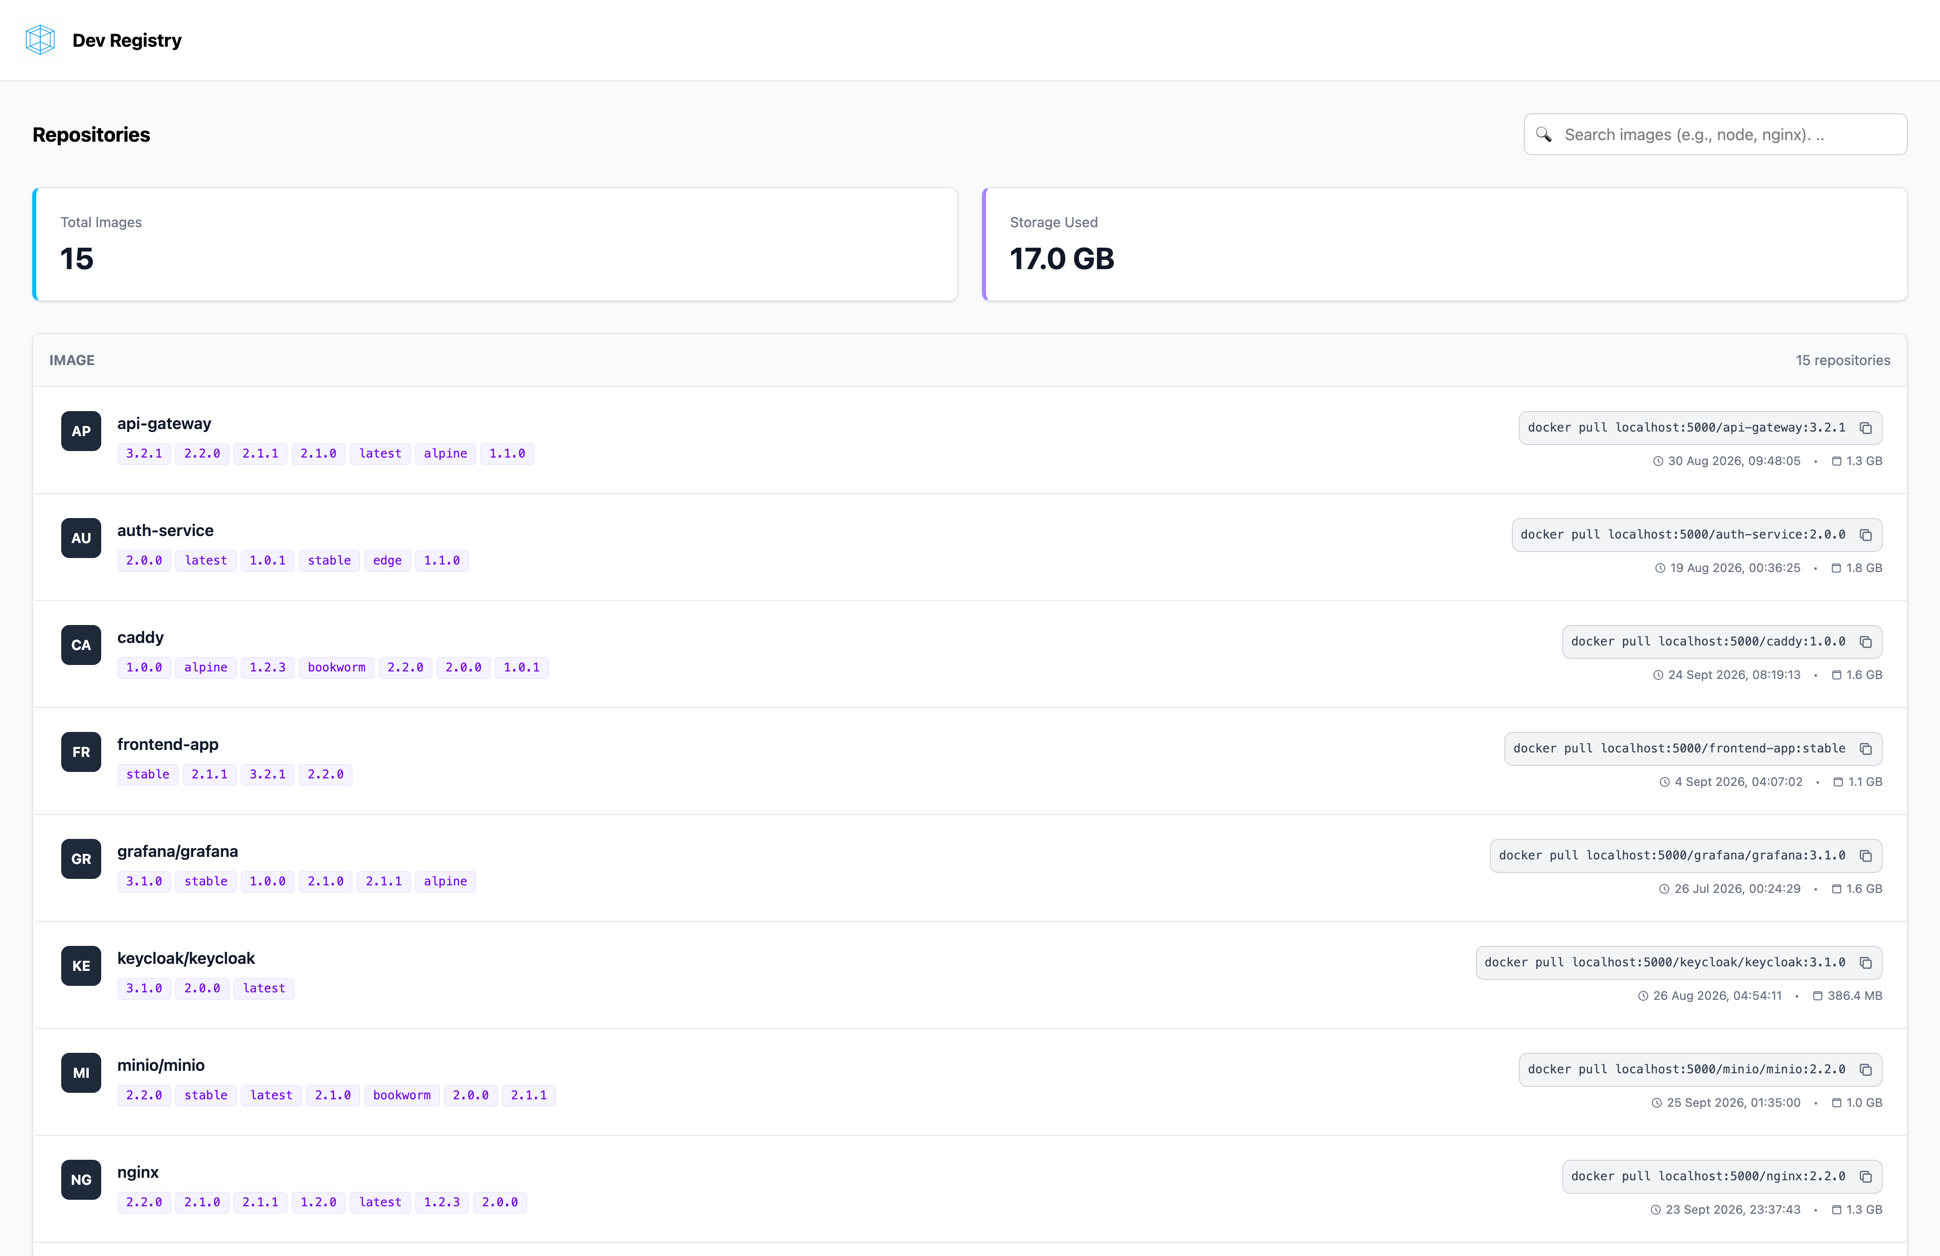
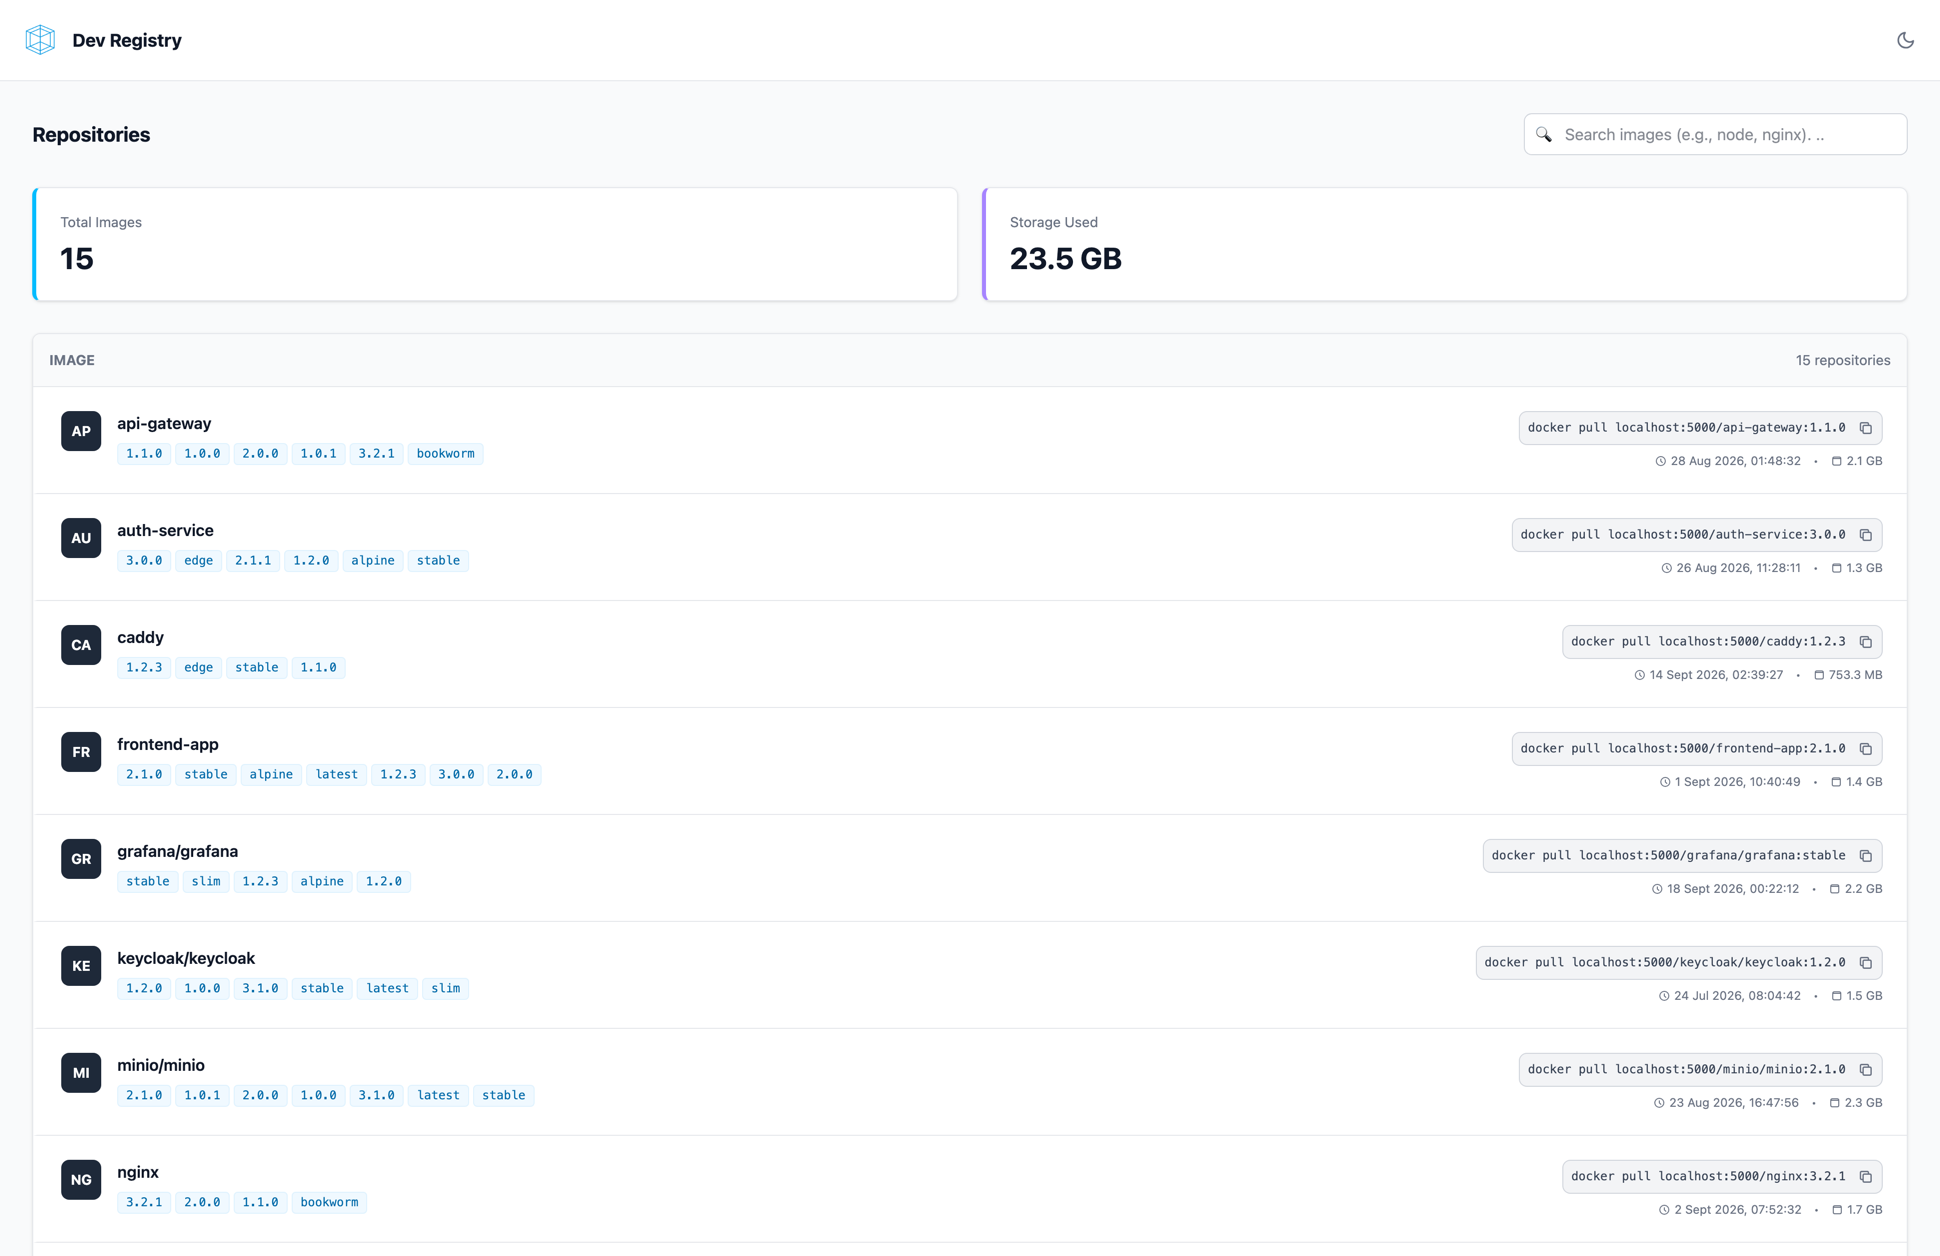
Tweak dark mode (#28)
* Tweak dark mode contrast and hover

Two things were broken in dark mode:

- The repo initial avatars used bg-gray-800, the same colour the card
  behind them became, so the square was invisible. They now use a light
  chip, mirroring the dark-on-white chip used in light mode.
- dark:border-gray-700 sets all four sides, which overrode
  border-l-sky-400 and border-l-violet-400 on the stat cards and left
  them flat grey. Both now set the left colour explicitly.

The hover states were also far stronger than their light mode
counterparts. White to gray-50 is a 1.5 point step in OKLCH lightness,
but gray-800 to gray-700 is 9.5, so the same nominal step reads over six
times louder at the dark end of the scale. Rows now lift by white/5 and
pagination buttons by white/8, keeping buttons the more assertive of the
two.

* Give the logo an alpha channel

logo.png was RGB with no alpha, so the cube sat on a solid white square.
Dark mode worked around that with invert, hue-rotate and mix-blend-lighten,
which did remove the white box but shifted the stroke from its real
1,154,234 to 30,161,241.

Key the white background out instead, with ffmpeg colorkey at similarity
0.10 and blend 0.10. The blend keeps the anti-aliased edges soft, so there
is no light halo against a dark header, and the stroke keeps its exact
colour. The filter classes are no longer needed, and the file is slightly
smaller than before.

Light mode is unchanged, the logo already sat on a white header.
[…]

diff --git a/pages/index.vue b/pages/index.vue
@@ -15,11 +15,11 @@
       </header>
 
       <div class="grid grid-cols-2 gap-6 mb-8">
-        <div class="bg-white p-6 rounded-lg border border-gray-200 border-l-4 border-l-sky-400 shadow-sm dark:bg-gray-800 dark:border-gray-700">
+        <div class="bg-white p-6 rounded-lg border border-gray-200 border-l-4 border-l-sky-400 shadow-sm dark:bg-gray-800 dark:border-gray-700 dark:border-l-sky-400">
           <div class="text-sm text-gray-500 mb-2 dark:text-gray-400">Total Images</div>
           <div class="text-3xl font-bold text-gray-900 dark:text-gray-100">{{ totalImages }}</div>
         </div>
-        <div class="bg-white p-6 rounded-lg border border-gray-200 border-l-4 border-l-violet-400 shadow-sm dark:bg-gray-800 dark:border-gray-700">
+        <div class="bg-white p-6 rounded-lg border border-gray-200 border-l-4 border-l-violet-400 shadow-sm dark:bg-gray-800 dark:border-gray-700 dark:border-l-violet-400">
           <div class="text-sm text-gray-500 mb-2 dark:text-gray-400">Storage Used</div>
           <div class="text-3xl font-bold text-gray-900 dark:text-gray-100">{{ formatBytes(totalStorage) }}</div>
         </div>
@@ -31,18 +31,18 @@
           <span class="text-sm text-gray-500 dark:text-gray-400">{{ totalImages }} {{ totalImages === 1 ? 'repository' : 'repositories' }}</span>
         </div>
 
-          <div class="p-6 border-b border-gray-200 border-l-4 border-l-transparent flex justify-between items-start transition hover:bg-gray-50 hover:border-l-sky-400 dark:border-gray-700 dark:hover:bg-gray-700" v-for="r in repos" :key="r.name">
+          <div class="p-6 border-b border-gray-200 border-l-4 border-l-transparent flex justify-between items-start transition hover:bg-gray-50 hover:border-l-sky-400 dark:border-gray-700 dark:hover:bg-white/5" v-for="r in repos" :key="r.name">
               <div class="flex gap-4 items-start">
-                <div class="bg-gray-800 text-white w-10 h-10 rounded-lg flex items-center justify-center font-bold text-sm shrink-0">
+                <div class="bg-gray-800 text-white w-10 h-10 rounded-lg dark:bg-gray-200 dark:text-gray-900 flex items-center justify-center font-bold text-sm shrink-0">
                   {{ getRepoInitial(r.name) }}
                 </div>
                 <div>
-                  <NuxtLink :to="`/repos/${r.slug}`" class="font-semibold text-gray-900 hover:text-sky-600 transition dark:text-gray-100">
+                  <NuxtLink :to="`/repos/${r.slug}`" class="font-semibold text-gray-900 hover:text-sky-600 transition dark:text-gray-100 dark:hover:text-sky-400">
                     {{ r.name }}
                   </NuxtLink>
                 <div class="flex flex-wrap gap-1 mt-2">
-                  <span class="inline-block px-2 py-0.5 text-xs font-mono rounded border border-violet-100 bg-violet-50 text-violet-700 dark:border-violet-800 dark:bg-violet-950 dark:text-violet-300" v-for="tag in r.tags.slice(0, 10)" :key="tag">{{ tag }}</span>
-                  <span class="inline-block px-2 py-0.5 text-xs font-mono rounded border border-violet-100 bg-violet-50 text-violet-500 dark:border-violet-800 dark:bg-violet-950 dark:text-violet-300" v-if="r.tags.length > 10">+{{ r.tags.length - 10 }} more</span>
+                  <span class="inline-block px-2 py-0.5 text-xs font-mono rounded border border-sky-100 bg-sky-50 text-sky-700 dark:border-sky-400/15 dark:bg-sky-400/8 dark:text-sky-300" v-for="tag in r.tags.slice(0, 10)" :key="tag">{{ tag }}</span>
+                  <span class="inline-block px-2 py-0.5 text-xs font-mono rounded border border-sky-100 bg-sky-50 text-sky-700 dark:border-sky-400/15 dark:bg-sky-400/8 dark:text-sky-300" v-if="r.tags.length > 10">+{{ r.tags.length - 10 }} more</span>
                 </div>
               </div>
             </div>
@@ -75,7 +75,7 @@
           <button
             @click="currentPage--"
             :disabled="currentPage === 1"
-            class="px-4 py-2 border border-gray-300 rounded-lg bg-white text-gray-700 hover:bg-gray-50 disabled:opacity-50 disabled:cursor-not-allowed cursor-pointer transition dark:border-gray-600 dark:bg-gray-800 dark:text-gray-200 dark:hover:bg-gray-700"
+            class="px-4 py-2 border border-gray-300 rounded-lg bg-white text-gray-700 hover:bg-gray-50 disabled:opacity-50 disabled:cursor-not-allowed cursor-pointer transition dark:border-gray-600 dark:bg-gray-800 dark:text-gray-200 dark:hover:bg-white/8"
           >
             Previous
           </button>
@@ -88,7 +88,7 @@
               'px-4 py-2 border rounded-lg transition cursor-pointer',
               currentPage === page
                 ? 'bg-sky-500 text-white border-sky-500'
-                : 'bg-white text-gray-700 border-gray-300 hover:bg-gray-50 dark:bg-gray-800 dark:text-gray-200 dark:border-gray-600 dark:hover:bg-gray-700'
+                : 'bg-white text-gray-700 border-gray-300 hover:bg-gray-50 dark:bg-gray-800 dark:text-gray-200 dark:border-gray-600 dark:hover:bg-white/8'
             ]"
           >
             {{ page }}
@@ -97,7 +97,7 @@
           <button
             @click="currentPage++"
             :disabled="currentPage === totalPages"
-            class="px-4 py-2 border border-gray-300 rounded-lg bg-white text-gray-700 hover:bg-gray-50 disabled:opacity-50 disabled:cursor-not-allowed cursor-pointer transition dark:border-gray-600 dark:bg-gray-800 dark:text-gray-200 dark:hover:bg-gray-700"
+            class="px-4 py-2 border border-gray-300 rounded-lg bg-white text-gray-700 hover:bg-gray-50 disabled:opacity-50 disabled:cursor-not-allowed cursor-pointer transition dark:border-gray-600 dark:bg-gray-800 dark:text-gray-200 dark:hover:bg-white/8"
           >
             Next
           </button>

diff --git a/pages/repos/[slug].vue b/pages/repos/[slug].vue
@@ -3,7 +3,7 @@
     <main class="flex-1 overflow-y-auto p-8">
       <header class="flex justify-between items-center mb-8">
         <div>
-          <NuxtLink to="/" class="flex items-center text-sky-600 hover:text-sky-800 transition">
+          <NuxtLink to="/" class="flex items-center text-sky-600 hover:text-sky-800 transition dark:text-sky-400 dark:hover:text-sky-300">
             ← Back
           </NuxtLink>
           <h1 class="font-bold text-xl mt-2">{{ data?.repo }}</h1>
@@ -36,10 +36,10 @@
               </tr>
             </thead>
             <tbody class="bg-white divide-y divide-gray-200 dark:bg-gray-800 dark:divide-gray-700">
-              <tr v-for="img in images" :key="img.digest || img.tags[0]" class="hover:bg-gray-50 dark:hover:bg-gray-700">
+              <tr v-for="img in images" :key="img.digest || img.tags[0]" class="hover:bg-gray-50 dark:hover:bg-white/5">
               <td class="px-6 py-4 text-sm font-medium text-gray-900 dark:text-gray-100">
                 <div class="flex flex-wrap gap-1">
-                  <span v-for="tag in img.tags" :key="tag" class="inline-block px-2 py-0.5 text-xs font-mono rounded border border-violet-100 bg-violet-50 text-violet-700 dark:border-violet-800 dark:bg-violet-950 dark:text-violet-300">{{ tag }}</span>
+                  <span v-for="tag in img.tags" :key="tag" class="inline-block px-2 py-0.5 text-xs font-mono rounded border border-sky-100 bg-sky-50 text-sky-700 dark:border-sky-400/15 dark:bg-sky-400/8 dark:text-sky-300">{{ tag }}</span>
                 </div>
               </td>
               <td class="px-6 py-4 whitespace-nowrap text-sm text-gray-500 dark:text-gray-400">
@@ -53,7 +53,7 @@
                   v-if="img.digest"
                   @click="deleteImage(img)"
                   :disabled="deleting[img.digest]"
-                  class="text-red-600 hover:text-red-800 disabled:text-gray-400 disabled:cursor-not-allowed transition text-xs font-medium cursor-pointer"
+                  class="text-red-600 hover:text-red-800 disabled:text-gray-400 dark:text-red-400 dark:hover:text-red-300 disabled:cursor-not-allowed transition text-xs font-medium cursor-pointer"
                 >
                   {{ deleting[img.digest] ? 'Deleting...' : 'Delete' }}
                 </button>
@@ -73,7 +73,7 @@
           <button
             @click="currentPage--"
             :disabled="currentPage === 1"
-            class="px-4 py-2 border border-gray-300 rounded-lg bg-white text-gray-700 hover:bg-gray-50 disabled:opacity-50 disabled:cursor-not-allowed cursor-pointer transition dark:border-gray-600 dark:bg-gray-800 dark:text-gray-200 dark:hover:bg-gray-700"
+            class="px-4 py-2 border border-gray-300 rounded-lg bg-white text-gray-700 hover:bg-gray-50 disabled:opacity-50 disabled:cursor-not-allowed cursor-pointer transition dark:border-gray-600 dark:bg-gray-800 dark:text-gray-200 dark:hover:bg-white/8"
           >
             Previous
           </button>
@@ -86,7 +86,7 @@
               'px-4 py-2 border rounded-lg transition cursor-pointer',
               currentPage === page
                 ? 'bg-sky-500 text-white border-sky-500'
-                : 'bg-white text-gray-700 border-gray-300 hover:bg-gray-50 dark:bg-gray-800 dark:text-gray-200 dark:border-gray-600 dark:hover:bg-gray-700'
+                : 'bg-white text-gray-700 border-gray-300 hover:bg-gray-50 dark:bg-gray-800 dark:text-gray-200 dark:border-gray-600 dark:hover:bg-white/8'
             ]"
           >
             {{ page }}
@@ -95,7 +95,7 @@
           <button
             @click="currentPage++"
             :disabled="currentPage === totalPages"
-            class="px-4 py-2 border border-gray-300 rounded-lg bg-white text-gray-700 hover:bg-gray-50 disabled:opacity-50 disabled:cursor-not-allowed cursor-pointer transition dark:border-gray-600 dark:bg-gray-800 dark:text-gray-200 dark:hover:bg-gray-700"
+            class="px-4 py-2 border border-gray-300 rounded-lg bg-white text-gray-700 hover:bg-gray-50 disabled:opacity-50 disabled:cursor-not-allowed cursor-pointer transition dark:border-gray-600 dark:bg-gray-800 dark:text-gray-200 dark:hover:bg-white/8"
           >
             Next
           </button>

diff --git a/components/ThemeToggle.vue b/components/ThemeToggle.vue
@@ -1,24 +1,44 @@
 <script setup lang="ts">
-import { useTheme } from '../composables/useTheme';
-
 const { isDark, toggleTheme } = useTheme();
+
+const label = computed(() => (isDark.value ? 'Switch to light theme' : 'Switch to dark theme'));
 </script>
 
 <template>
-  <div class="ml-auto flex items-center gap-3">
-    <span class="text-sm text-gray-600 dark:text-gray-300">Theme</span>
-    <button
-      type="button"
-      :aria-pressed="isDark"
-      :aria-label="isDark ? 'Switch to light theme' : 'Switch to dark theme'"
-      class="relative inline-flex h-7 w-12 items-center rounded-full border px-1 focus:outline-none focus:ring-2 focus:ring-sky-500 cursor-pointer"
-      :class="isDark ? 'bg-sky-500 border-sky-400 dark:bg-sky-500 dark:border-sky-400' : 'bg-gray-200 border-gray-300 dark:bg-gray-700 dark:border-gray-600'"
-      @click="toggleTheme"
+  <button
+    type="button"
+    :aria-pressed="isDark"
+    :aria-label="label"
+    :title="label"
+    class="ml-auto p-2 rounded-lg text-gray-500 transition cursor-pointer hover:text-gray-900 hover:bg-gray-100 focus:outline-none focus-visible:ring-2 focus-visible:ring-sky-500 dark:text-gray-400 dark:hover:text-gray-100 dark:hover:bg-white/8"
+    @click="toggleTheme"
+  >
+    <svg
+      v-if="isDark"
+      class="w-5 h-5"
+      fill="none"
+      stroke="currentColor"
+      stroke-width="2"
+      stroke-linecap="round"
+      stroke-linejoin="round"
+      viewBox="0 0 24 24"
+      aria-hidden="true"
     >
-      <span
-        class="inline-block h-5 w-5 rounded-full bg-white shadow"
-        :class="isDark ? 'translate-x-5' : 'translate-x-0'"
-      />
-    </button>
-  </div>
+      <circle cx="12" cy="12" r="5" />
+      <path d="M12 1v2M12 21v2M4.22 4.22l1.42 1.42M18.36 18.36l1.42 1.42M1 12h2M21 12h2M4.22 19.78l1.42-1.42M18.36 5.64l1.42-1.42" />
+    </svg>
+    <svg
+      v-else
+      class="w-5 h-5"
+      fill="none"
+      stroke="currentColor"
+      stroke-width="2"
+      stroke-linecap="round"
+      stroke-linejoin="round"
+      viewBox="0 0 24 24"
+      aria-hidden="true"
+    >
+      <path d="M21 12.79A9 9 0 1 1 11.21 3 7 7 0 0 0 21 12.79z" />
+    </svg>
+  </button>
 </template>

diff --git a/layouts/default.vue b/layouts/default.vue
@@ -19,7 +19,7 @@ useHead({
 <template>
   <div class="flex flex-col h-screen bg-gray-50 text-gray-900 dark:bg-gray-900 dark:text-gray-100">
     <header class="bg-white border-b border-gray-200 p-4 flex items-center gap-2 dark:bg-gray-800 dark:border-gray-700">
-      <img class="h-12 dark:invert dark:hue-rotate-180 dark:mix-blend-lighten" src="/logo.png" alt="logo" />
+      <img class="h-12" src="/logo.png" alt="logo" />
       <span class="font-bold text-lg">{{ config.public.registryTitle }}</span>
       <ThemeToggle />
     </header>

diff --git a/CLAUDE.md b/CLAUDE.md
@@ -58,6 +58,10 @@ pages/
   repos/[slug].vue       # Repo detail — images grouped by digest, delete button
 
 layouts/default.vue      # Shared header/wrapper
+
+components/ThemeToggle.vue  # Icon-only light/dark switch (inline SVG, no icon library)
+composables/useTheme.ts     # Theme state in a cookie, so SSR renders the right class
+assets/css/main.css         # Global stylesheet — Tailwind entry + the dark variant
 ```
 
 **Data flow:** `refresh-registry.mjs` → SQLite → Nitro API handlers → `useFetch()` in Vue pages.
@@ -72,11 +76,21 @@ layouts/default.vue      # Shared header/wrapper
 
 **Image deletion:** The repo detail page includes delete buttons for each image. Deletion flow: UI calls DELETE endpoint → server calls Registry API v2 `DELETE /v2/<name>/manifests/<digest>` (returns 202 Accepted) → triggers database refresh → pruning removes deleted entries → UI refreshes. Requires registry to have deletion enabled (`REGISTRY_STORAGE_DELETE_ENABLED=true`). Uses confirmation dialog before deletion and toast notifications for feedback.
 
+**Dark mode:** Class-based, not `prefers-color-scheme`. `assets/css/main.css` declares `@custom-variant dark (&:where(.dark, .dark *))`, which repoints Tailwind's `dark:` variant at a `.dark` class on `<html>`. The choice lives in a `theme` cookie read by `composables/useTheme.ts`, so SSR renders the class on the first response and there is no flash of the wrong theme. Surfaces are `gray-900` for the page and `gray-800` for cards.
+
+Three things to watch when adding dark styles:
+
+- Anything already dark in light mode needs its own `dark:` value, or it disappears against the `gray-800` card. The repo initial avatars hit this exactly.
+- `dark:border-gray-700` sets all four sides and will silently override a `border-l-*` accent. Set the side colour explicitly in the dark variant too.
+- For hover, prefer a translucent white (`dark:hover:bg-white/5` for rows, `/8` for buttons) over the next grey shade. One step down the grey scale is a far bigger perceptual jump at the dark end than at the light end, so `gray-800` to `gray-700` reads about six times louder than `white` to `gray-50`.
+
 ## Key Conventions
 
 - **Package manager:** npm with `save-exact=true`
 - **Styling:** Tailwind CSS 4 via `@tailwindcss/vite` — all styling is utility classes, no component library
-  - Tag badges: sky blue style (`bg-sky-100 text-sky-700 px-2 py-0.5 text-xs font-medium rounded`)
+  - Tailwind is imported from `assets/css/main.css`, registered as a global stylesheet in `nuxt.config.ts`. It must stay global: importing it from a component `<style>` block scopes it to that route's chunk and leaves other routes unstyled.
+  - Tag badges: `border border-sky-100 bg-sky-50 text-sky-700` plus `px-2 py-0.5 text-xs font-mono rounded`
+  - Icons are inline SVG (`fill="none" stroke="currentColor" viewBox="0 0 24 24"`), no icon library
 - **Vue style:** Composition API with `<script setup>`, `ref()`, `computed()`, `useFetch()`
 - **API routes:** Nitro `defineEventHandler()` pattern, params via `getRouterParam()`
 - **Timestamps:** ISO 8601 strings throughout (JS `.toISOString()`, stored as TEXT in SQLite)
@@ -86,7 +100,7 @@ layouts/default.vue      # Shared header/wrapper
 
 ## Docker
 
-Multi-stage Dockerfile (node:20-alpine). Runtime uses supercronic for scheduled refreshes. Entrypoint runs migration → initial refresh → starts cron + Nuxt server. A `docker-compose.yml` provides a local registry on port 4000 for development.
+Multi-stage Dockerfile (node:24-alpine). Runtime uses supercronic for scheduled refreshes. Entrypoint runs migration → initial refresh → starts cron + Nuxt server. A `docker-compose.yml` provides a local registry on port 4000 for development.
 
 ## CI/CD
 
